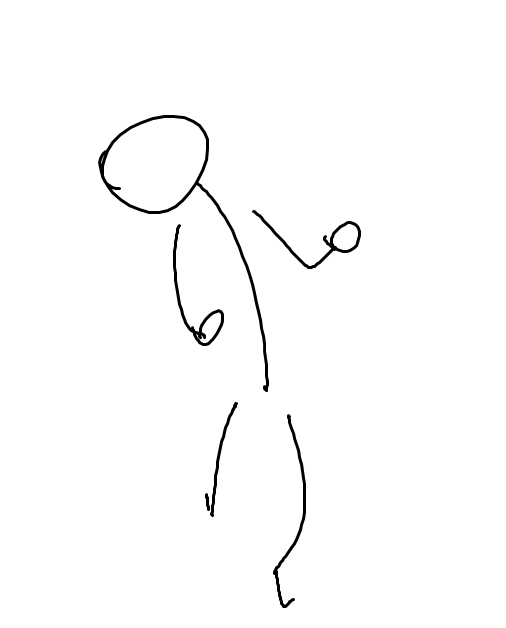
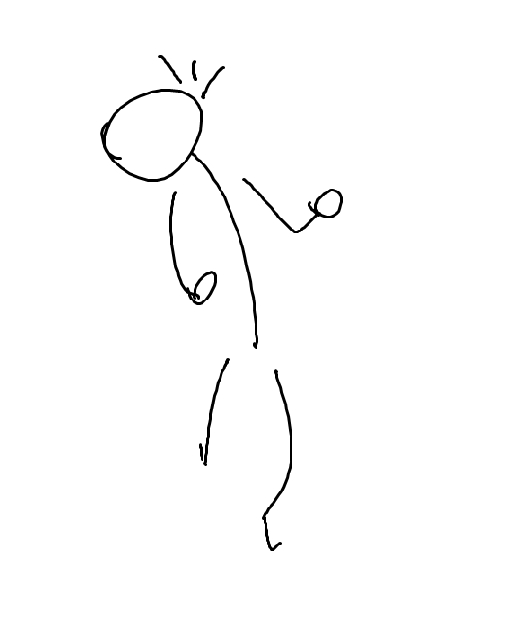
Getting hit and first enemy setup

diff --git a/Assets/Player/PlayerCombat.cs b/Assets/Player/PlayerCombat.cs
@@ -9,6 +9,7 @@ public class PlayerCombat : MonoBehaviour
     bool isIdle = false;
     bool isBlocking = false;
     bool isAttacking = false;
+    bool isKnocked = false;
     int comboPos = 0;
 
     Animator animator;
@@ -20,23 +21,27 @@ public class PlayerCombat : MonoBehaviour
     }
 
     void Update() {
-        if (Input.GetMouseButton(1) && !isAttacking && !isBlocking) {
-            Debug.Log("Block");
-            isBlocking = true;
-            comboPos = 0;
-            UpdateAnimator();
-        } else if (Input.GetMouseButtonDown(0) && !isAttacking && !isBlocking) {
-            isAttacking = true;
-
-            if (comboPos == 0)
-            {
-                comboPos++;
-                Debug.Log("first attack");
-                UpdateAnimator();
-            }
-
-            SetIdle();
+        if (Input.GetKeyDown(KeyCode.Space)) {
+            HitPlayer();
         }
+
+        if (!isAttacking && !isBlocking && !isKnocked) {
+            if (Input.GetMouseButton(1)) {
+                isBlocking = true;
+                comboPos = 0;
+                UpdateAnimator();
+            } else if (Input.GetMouseButtonDown(0)) {
+                isAttacking = true;
+
+                if (comboPos == 0) {
+                    comboPos++;
+                    Debug.Log("first attack");
+                    UpdateAnimator();
+                }
+
+                SetIdle();
+            }
+        } 
 
         if (Input.GetMouseButtonUp(1) && isBlocking) {
             isBlocking = false;
@@ -45,7 +50,7 @@ public class PlayerCombat : MonoBehaviour
     }
 
     void SetIdle() {
-        isIdle = comboPos == 0 && !isBlocking;
+        isIdle = comboPos == 0 && !isBlocking && !isKnocked;
     }
 
     public void AttackTriggered() {
@@ -78,7 +83,16 @@ public class PlayerCombat : MonoBehaviour
     }
 
     public void HitPlayer() {
-        
+        isKnocked = true;
+        isAttacking = false;
+        isBlocking = false;
+        comboPos = 0;
+        animator.SetTrigger("IsHit");
+    }
+
+    public void EndHitPlayer() {
+        isKnocked = false;
+        UpdateAnimator();
     }
 
     void UpdateAnimator() {

diff --git a/Assets/Enemies/EnemyCombat.cs b/Assets/Enemies/EnemyCombat.cs
@@ -1,0 +1,18 @@
+using System.Collections;
+using System.Collections.Generic;
+using UnityEngine;
+
+public class EnemyCombat : MonoBehaviour
+{
+    // Start is called before the first frame update
+    void Start()
+    {
+        
+    }
+
+    // Update is called once per frame
+    void Update()
+    {
+        
+    }
+}
